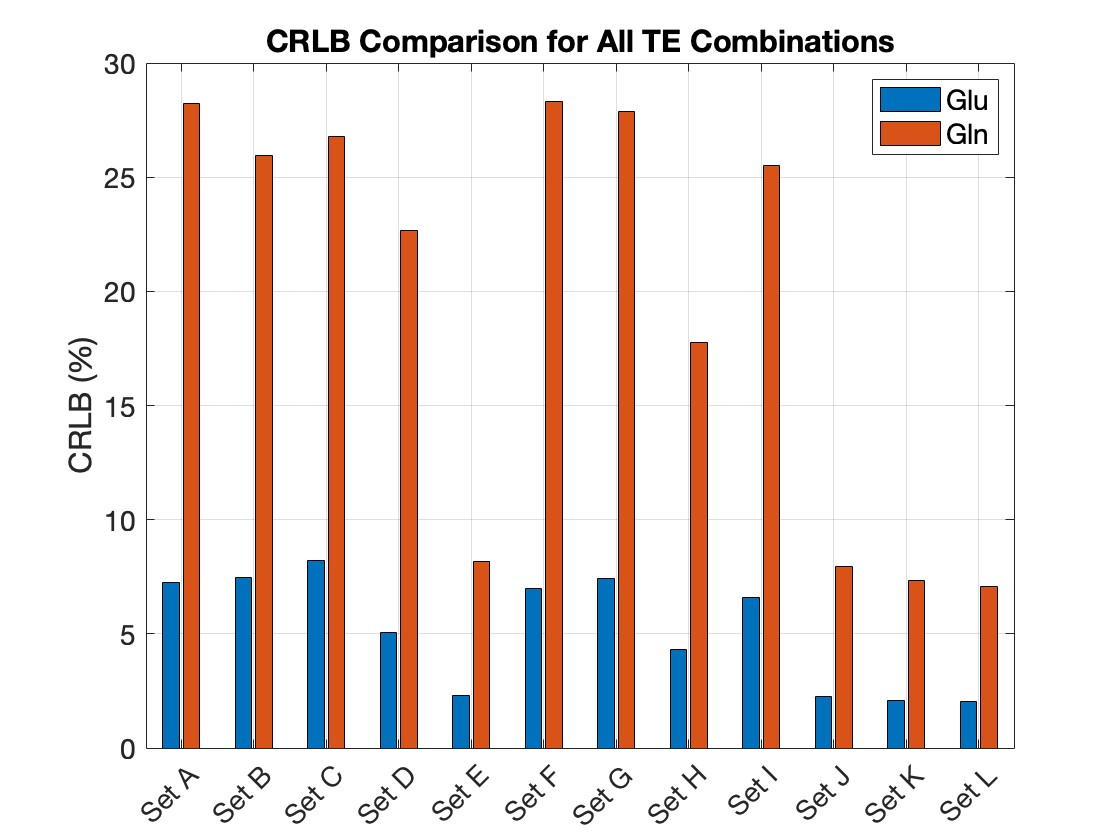
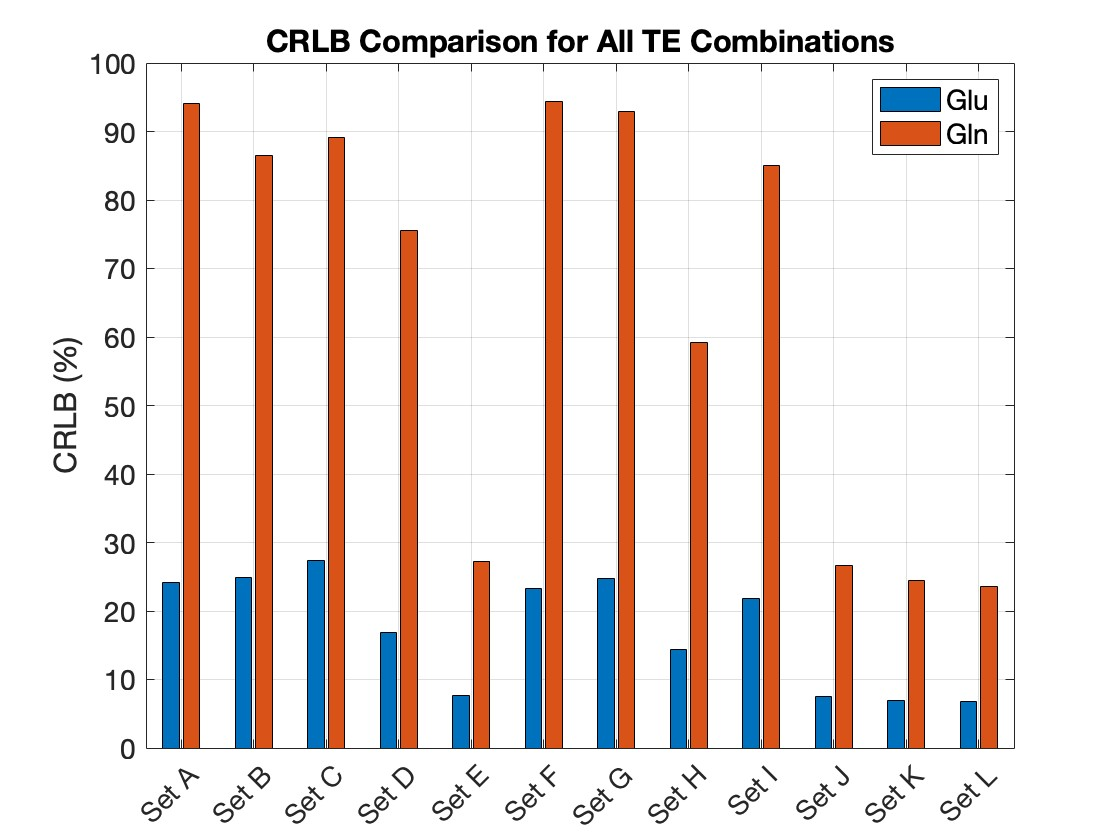
Updated Figures

diff --git a/Aim 2 /Hybrid-TE/CRLB_estimation_05_Glu_Gln_KC.m b/Aim 2 /Hybrid-TE/CRLB_estimation_05_Glu_Gln_KC.m
@@ -58,11 +58,11 @@ numspec = 4;        % number of spectra to concatenate
 % TE1_indx = [5 7 9 11];     % make sure number of indices in here match numspec
 % TE2_indx = [17 19 13 15];     % make sure number of indices in here match numspec
 
-TE1_indx = [5,5,5,5];     % make sure number of indices in here match numspec
-TE2_indx = [1,1,1,1];
+TE1_indx = [5,7,9,11];     % make sure number of indices in here match numspec
+TE2_indx = [17,19,13,15];
 
 %SimPars.noise = SimPars.noise/sqrt(numspec);
-noise_sw = 0.0045;
+noise_sw = 0.015;
 SimPars.noise_single = noise_sw * sqrt(SimPars.sw);    % gives ~SNR = 9.96 in single-TE
 SimPars.noise = SimPars.noise_single * sqrt(numspec);  % adjust for fixed scan time (√4 = 2)
 
@@ -321,28 +321,27 @@ disp('-------------------------------------------');
 disp(['SNR (Glutamate) = ' num2str(SNR_Glu)]);
 disp(['SNR (Glutamine) = ' num2str(SNR_Gln)]);
 disp('-------------------------------------------');
-
 % Labels for all evaluated TE sets
 sets = {'Set A', 'Set B', 'Set C', 'Set D', 'Set E', 'Set F', 'Set G', ...
          'Set H', 'Set I', 'Set J', 'Set K', 'Set L'};
 
 % ----- Updated CRLB Data -----
-crlb_glu  = [7.24, 7.46, 8.23, 5.06, 2.29, 6.98, 7.41, 4.30, 6.57, 2.24, 2.08, 2.03];  % Glu CRLB
-crlb_gln  = [28.23, 25.93, 26.76, 22.67, 8.18, 28.31, 27.86, 17.78, 25.51, 7.97, 7.32, 7.06];  % Gln CRLB
+crlb_glu  = [24.14, 24.86, 27.42, 16.86, 7.65, 23.26, 24.70, 14.32, 21.89, 7.48, 6.96, 6.76];  % Glu CRLB
+crlb_gln  = [94.09, 86.43, 89.19, 75.57, 27.27, 94.38, 92.88, 59.27, 85.03, 26.57, 24.40, 23.53];  % Gln CRLB
 
-% ----- Updated Monte Carlo CV Data (no percent signs) -----
-cv_glu    = [7.40, 7.28, 7.40, 5.39, 2.25, 6.92, 7.49, 4.74, 6.94, 2.45, 2.00, 2.31];  % Glu CV
-cv_gln    = [24.07, 24.27, 24.36, 22.87, 8.29, 23.61, 23.63, 20.00, 24.76, 8.99, 7.55, 8.15];  % Gln CV
+% ----- Updated Monte Carlo CV Data (in % but input as raw values) -----
+cv_glu    = [22.03, 24.01, 24.61, 15.78, 7.94, 20.68, 25.52, 12.32, 22.90, 7.69, 6.95, 6.89];  % Glu CV
+cv_gln    = [64.42, 57.76, 58.42, 53.02, 26.17, 69.51, 66.73, 47.42, 56.58, 26.67, 24.01, 23.52];  % Gln CV
 
 % ----- Updated SNR Data -----
-snr_glu   = [2.26, 1.70, 3.71, 3.05, 4.58, 0.80, 2.54, 5.79, 0.95, 5.69, 7.67, 6.81]; % Glu SNR
-snr_gln   = [2.79, 2.22, 2.22, 1.05, 1.54, 2.04, 1.81, 2.03, 0.96, 1.85, 3.27, 2.70];  % Gln SNR
+snr_glu   = [1.10, 0.57, 1.30, 3.02, 2.29, 1.73, 1.02, 2.01, 1.97, 2.24, 3.48, 2.49]; % Glu SNR
+snr_gln   = [1.39, 1.95, 2.19, 1.17, 1.00, 1.07, 1.46, 1.66, 2.40, 3.09, 2.15, 1.17];  % Gln SNR
 
 % ----- Plot CRLB -----
 figure;
 bar([crlb_glu; crlb_gln]', 'grouped');
 title('CRLB Comparison for All TE Combinations', 'FontSize', 16, 'FontWeight', 'bold');
-ylabel('CRLB', 'FontSize', 16);
+ylabel('CRLB (%)', 'FontSize', 16);
 set(gca, 'XTickLabel', sets, 'FontSize', 14, 'XTickLabelRotation', 45);
 legend({'Glu', 'Gln'}, 'Location', 'northeast', 'FontSize', 14);
 grid on;
@@ -351,7 +350,7 @@ grid on;
 figure;
 bar([cv_glu; cv_gln]', 'grouped');
 title('Monte Carlo Coefficient of Variation for All TE Combinations', 'FontSize', 16, 'FontWeight', 'bold');
-ylabel('Coefficient of Variation', 'FontSize', 16);
+ylabel('Coefficient of Variation (%)', 'FontSize', 16);
 set(gca, 'XTickLabel', sets, 'FontSize', 14, 'XTickLabelRotation', 45);
 legend({'Glu', 'Gln'}, 'Location', 'northeast', 'FontSize', 14);
 grid on;
